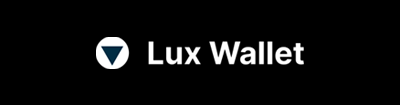
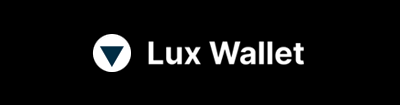
fix style

Changed region(s): [[0.21, 0.3143, 0.33, 0.6857]]

diff --git a/src/ui/component/WordsMatrix/MnemonicsInputs.tsx b/src/ui/component/WordsMatrix/MnemonicsInputs.tsx
@@ -387,7 +387,7 @@ function MnemonicsInputs({
               {MNEMONICS_COUNTS.map((count) => {
                 return (
                   <Menu.Item
-                    className="h-[38px] py-0 px-[8px] text-l-neutral-body hover:bg-transparent"
+                    className="h-[38px] py-0 px-[8px] text-[#000000] hover:bg-transparent"
                     key={`countSelector-${count}`}
                     onClick={() => {
                       setMnemonicsCount(count);
@@ -401,10 +401,7 @@ function MnemonicsInputs({
                         i18nKey="page.newAddress.seedPhrase.wordPhrase"
                         values={{ count }}
                       >
-                        I have a
-                        <b style={{ color: 'var(--l-blue-default, #7084ff)' }}>
-                          {{ count }}
-                        </b>
+                        I have a<b style={{ color: '#000000' }}>{{ count }}</b>
                         -word phrase
                       </Trans>
                     </div>
@@ -416,7 +413,7 @@ function MnemonicsInputs({
                   <Menu.Item
                     className="h-[38px] py-0 px-[8px] hover:bg-transparent"
                     key={`countSelector-need-passphrase-${count}`}
-                    style={{ color: 'var(--l-neutral-body)' }}
+                    style={{ color: '#000' }}
                     onClick={() => {
                       setMnemonicsCount(count);
                       setNeedPassphrase(true);
@@ -472,7 +469,7 @@ function MnemonicsInputs({
             </Menu>
           }
         >
-          <div className="left flex items-center cursor-pointer">
+          <div className="left flex items-center cursor-pointer text-[#000]">
             <span>
               {!isSlip39 ? (
                 <Trans

diff --git a/src/ui/component/AddAddressOptions/index.tsx b/src/ui/component/AddAddressOptions/index.tsx
@@ -351,10 +351,7 @@ const AddAddressOptions = () => {
   return (
     <div className="lux-container bg-[#000] pb-[12px]" ref={rootRef}>
       {[createImportAddrList, centerList].map((items, index) => (
-        <div
-          className="bg-l-neutral-card-1 rounded-[6px] mb-[12px]"
-          key={index}
-        >
+        <div className="bg-[#ffffff22] rounded-[6px] mb-[12px]" key={index}>
           {items.map((e) => {
             return (
               <Item
@@ -372,7 +369,7 @@ const AddAddressOptions = () => {
         </div>
       ))}
 
-      <div className="bg-l-neutral-card-1 rounded-[6px] mb-[12px]">
+      <div className="bg-[#ffffff22] rounded-[6px] mb-[12px]">
         {renderList.map((item) => {
           const isSelected = selectedWalletType === item.key;
           return (
@@ -452,7 +449,7 @@ const AddAddressOptions = () => {
         })}
       </div>
 
-      <div className="bg-l-neutral-card-1 rounded-[6px]">
+      <div className="bg-[#ffffff22] rounded-[6px]">
         {bottomList.map((e) => {
           return (
             <Item

diff --git a/src/ui/component/Item/index.tsx b/src/ui/component/Item/index.tsx
@@ -25,6 +25,7 @@ const ItemWrapper = styled.div<{
 }>`
   width: 100%;
 
+  border-color: #ffffff22;
   background-color: ${(p) => p.bgColor};
   border-radius: 6px;
   cursor: pointer;
@@ -41,7 +42,7 @@ const ItemWrapper = styled.div<{
       ? css`
           &:hover {
             background-color: ${p.hoverBgColor};
-            border-color: var(--l-blue-default, #7084ff);
+            border-color: transparent;
           }
         `
       : ''}
@@ -80,8 +81,8 @@ export const Item = (props: PropsWithChildren<ItemProps>) => {
     hoverBorder = true,
     px = 16,
     py = 15,
-    bgColor = 'var(--l-neutral-card-1, #fff)',
-    hoverBgColor = 'var(--l-blue-light-2, rgba(222, 227, 252, 1))',
+    bgColor = '#ffffff22',
+    hoverBgColor = '#ffffff25',
     className = '',
     leftIconClassName = '',
     rightIconClassName = '',

diff --git a/src/ui/views/HDManager/AddToLux.tsx b/src/ui/views/HDManager/AddToLux.tsx
@@ -32,8 +32,8 @@ export const AddToLux: React.FC<Props> = ({ checked, onChange }) => {
               className="icon"
               style={{
                 borderRadius: '14px',
-                marginTop: '-2.8px',
-                marginLeft: '-1.8px',
+                marginTop: '-4px',
+                marginLeft: '-3px',
               }}
             />
           ) : (
@@ -41,8 +41,8 @@ export const AddToLux: React.FC<Props> = ({ checked, onChange }) => {
               className="icon"
               style={{
                 borderRadius: '14px',
-                marginTop: '-2px',
-                marginLeft: '-2px',
+                marginTop: '-4px',
+                marginLeft: '-3px',
               }}
             />
           )}

diff --git a/src/ui/views/Receive/index.tsx b/src/ui/views/Receive/index.tsx
@@ -229,13 +229,13 @@ const Receive = () => {
 
       <div className="qr-card">
         <div className="qr-card-header">{title}</div>
-        <div className="qr-card-img border border-[#fff]">
+        <div className="qr-card-img border border-[#ffffff60]">
           {account?.address && <QRCode value={account.address} size={175} />}
         </div>
         <div className="qr-card-address">{account?.address}</div>
         <button
           type="button"
-          className="qr-card-btn border border-[#707070]"
+          className="qr-card-btn border border-[#ffffff25] hover:bg-[#ffffff22]"
           onClick={handleCopyAddress}
         >
           <ThemeIcon

diff --git a/src/ui/views/HDManager/index.less b/src/ui/views/HDManager/index.less
@@ -87,6 +87,12 @@
           color: #fff;
         }
       }
+      .ant-tabs-tab-btn {
+        color: #ffffff80;
+        &:focus {
+          color: #ffffff;
+        }
+      }
     }
   }
 }
@@ -378,8 +384,8 @@
   }
 
   &--selected {
-    background: var(--l-blue-light-1);
-    color: var(--l-blue-default);
+    background: #fff;
+    color: #000;
   }
 
   &--on-chain::before {

diff --git a/src/ui/views/RequestPermission/style.less b/src/ui/views/RequestPermission/style.less
@@ -36,8 +36,8 @@
   }
 }
 .request-permission {
-  background: var(--l-blue-light-1, #eef1ff);
-  border: 1px solid var(--l-blue-default, #7084ff);
+  background: #ffffff;
+  border: 1px solid #ffffff40;
   padding: 8px 16px;
   width: 470px;
   font-weight: 500;
